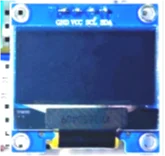
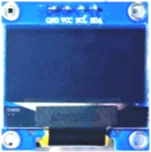
fix image, text

diff --git a/_sass/custom/setup.scss b/_sass/custom/setup.scss
@@ -50,9 +50,31 @@ main+hr {
   padding-bottom: .85rem;
 }
 
+@media (width < 30rem) {
+  .site-header .site-title {
+    padding-top: 1rem;
+    padding-bottom: 1rem;
+  }
+}
+
+@media (width < 23rem) {
+  .site-header .site-title {
+    padding-top: 1.25rem;
+    padding-bottom: 1.25rem;
+  }
+}
+
+@media (width < 20rem) {
+  .site-header .site-title {
+    padding-top: 1.4rem;
+    padding-bottom: 1.4rem;
+  }
+}
+
 .aux-nav .site-button.lang {
   font-size: 1.5rem;
   position: relative;
+  cursor: pointer;
 
   .select-lang-text {
     position: absolute;
@@ -70,7 +92,7 @@ main+hr {
 }
 
 .site-button {
-  padding: 0.75em !important;
+  padding: 0.8em !important;
 }
 
 

diff --git a/_includes/footer_custom.html b/_includes/footer_custom.html
@@ -29,7 +29,7 @@
   Array.from(document.querySelectorAll('.select-lang li')).map((el) => {
     const isActive = el.classList.contains(currentLang);
     el.classList.toggle('active', isActive);
-    if (isActive) document.querySelector('.site-button.lang').innerHTML = el.innerHTML;
+    if (isActive) document.querySelector('.site-button.lang').innerHTML = el.firstElementChild.innerHTML;
   });
   document.querySelector('.site-button.lang').addEventListener('click', (e) => {
     document.querySelector('.select-lang-container').classList.toggle('open');

diff --git a/getting-started/breadboard-wiring.md b/getting-started/breadboard-wiring.md
@@ -10,11 +10,11 @@ nav_order: 5
 ## Breadboard components
 - Raspberry Pi Pico 2W ![Raspberry Pi Pico 2W](/assets/images/raspberry-pi-pico-2w.webp){: .inline-img.large }
 - OLED display ![OLED Display](/assets/images/oled.webp){: .inline-img.large }
-- 6 buttons connected to GP0…GP5 ![6 Buttons](/assets/images/breadboard-buttons.webp){: .inline-img.large }
+- 6 buttons on GP0…GP5 ![6 Buttons](/assets/images/breadboard-buttons.webp){: .inline-img }
 - RGB LED ![RGB LED](/assets/images/rgb-led.webp){: .inline-img.large }
 - Piezo buzzer ![Piezo Buzzer](/assets/images/piezo-buzzer.webp){: .inline-img }
 
-## Breadboard connection points examples
+## Breadboard connection point examples
 - Connect VCC to ![Positive Rail](/assets/images/plus-rail.webp){: .inline-img } ![Positive Rail](/assets/images/positive-rail.webp){: .inline-img }
 - Connect GND to ![Ground Rail](/assets/images/minus-rail.webp){: .inline-img } ![Ground Rail](/assets/images/ground-rail.webp){: .inline-img }
 - Connect to GP9 pin here ![GP9](/assets/images/gp9-connection-holes.webp){: .inline-img }
